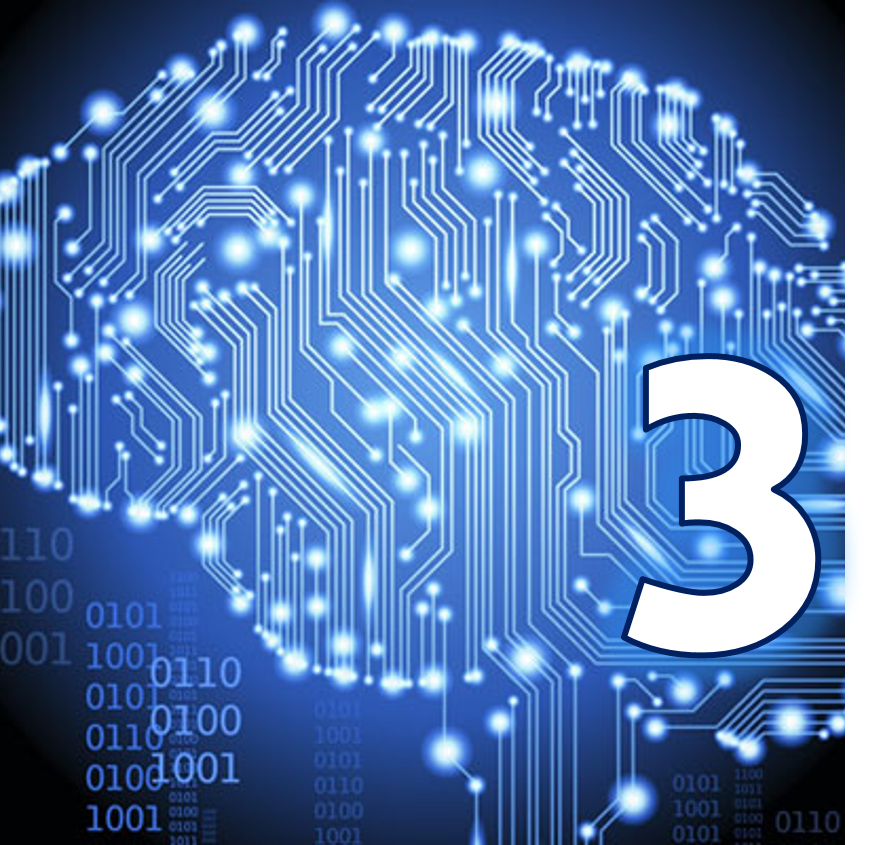
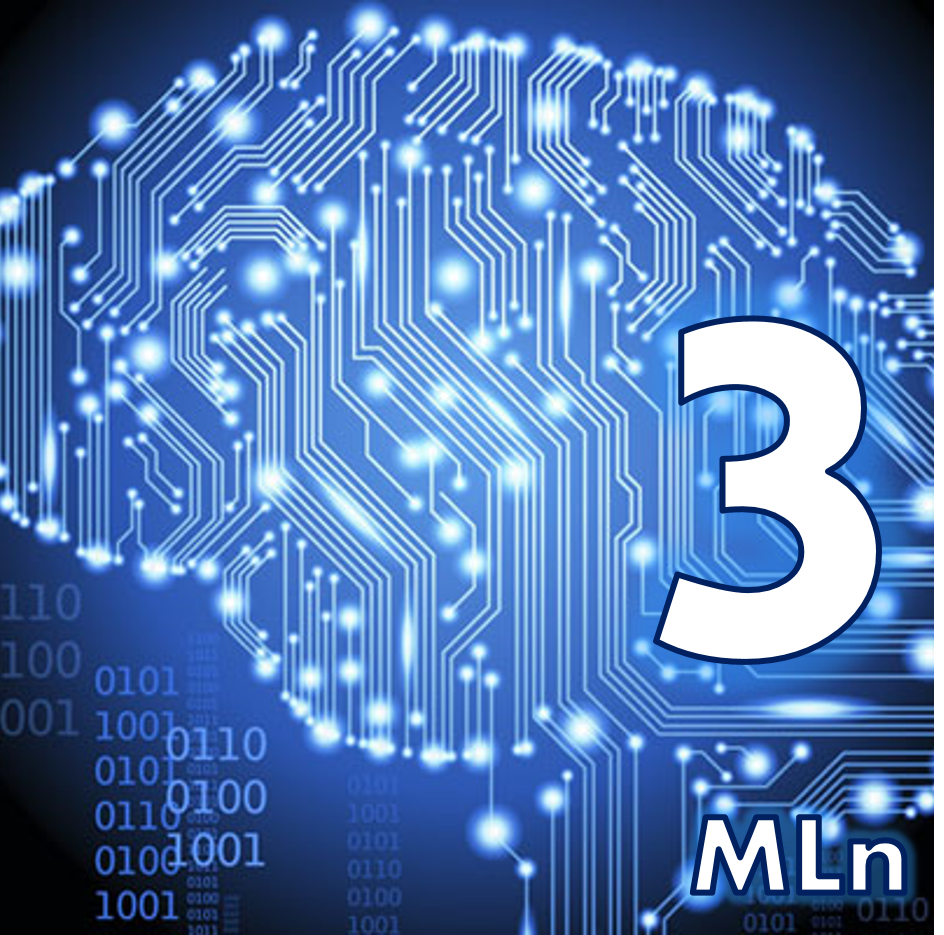
teaser images and descriptions

diff --git a/public/post/webdesign/index.html b/public/post/webdesign/index.html
@@ -225,7 +225,7 @@
 
 <div class="featured_image_container">
 
-  
+  <img class="featured_image" src="/img/featured_hugo.png">
 
  </div>
  
@@ -275,6 +275,11 @@
   </div>
   
   
+  
+<ul class="share-buttons"><li><a href="https://www.facebook.com/sharer/sharer.php?u=https%3A%2F%2Fmlnotebook.github.io&t=" title="Share on Facebook" target="_blank" onclick="window.open('https://www.facebook.com/sharer/sharer.php?u=' + encodeURIComponent(document.URL) + '&t=' + encodeURIComponent(document.URL),'','width=500,height=300'); return false;"><img alt="Share on facebook" src="/img/facebook.png"></a></li>
+  <li><a href="https://twitter.com/intent/tweet?source=https%3A%2F%2Fmlnotebook.github.io&text=:%20https%3A%2F%2Fmlnotebook.github.io&via=mlnotebook" target="_blank" title="Tweet" onclick="window.open('https://twitter.com/intent/tweet?text=' + encodeURIComponent(document.title) + ':%20'  + encodeURIComponent(document.URL),'','width=500,height=300'); return false;"><img alt="Tweet" src="/img/twitter.png"></a></li>
+  <li><a href="http://www.reddit.com/submit?url=https%3A%2F%2Fmlnotebook.github.io&title=" target="_blank" title="Submit to Reddit" onclick="window.open('http://www.reddit.com/submit?url=' + encodeURIComponent(document.URL) + '&title=' +  encodeURIComponent(document.title),'','width=500,height=300'); return false;"><img alt="Submit to Reddit" src="/img/reddit.png"></a></li>
+  <li><a href="http://www.linkedin.com/shareArticle?mini=true&url=https%3A%2F%2Fmlnotebook.github.io&title=&summary=&source=https%3A%2F%2Fmlnotebook.github.io" target="_blank" title="Share on LinkedIn" onclick="window.open('http://www.linkedin.com/shareArticle?mini=true&url=' + encodeURIComponent(document.URL) + '&title=' +  encodeURIComponent(document.title),'','width=500,height=300'); return false;"><img alt="Share on LinkedIn" src="/img/linkedin.png"></a></li></ul>	
   
 </div>
 

diff --git a/public/tags/hugo/index.html b/public/tags/hugo/index.html
@@ -239,8 +239,8 @@
 
 <div class="summary_image">
 
-<img class="summary_image" src="/img/brain.png">
 
+<img class="featured_image" src="/img/featured_hugo.png">
 </div>
 
   <div class="summary_text">
@@ -322,8 +322,8 @@
 
 <div class="summary_image">
 
-<img class="summary_image" src="/img/brain.png">
 
+<img class="featured_image" src="/img/mln_square.png">
 </div>
 
   <div class="summary_text">

diff --git a/public/topics/updates/index.html b/public/topics/updates/index.html
@@ -239,8 +239,8 @@
 
 <div class="summary_image">
 
-<img class="summary_image" src="/img/brain.png">
 
+<img class="featured_image" src="/img/featured_hugo.png">
 </div>
 
   <div class="summary_text">
@@ -322,8 +322,8 @@
 
 <div class="summary_image">
 
-<img class="summary_image" src="/img/brain.png">
 
+<img class="featured_image" src="/img/mln_square.png">
 </div>
 
   <div class="summary_text">

diff --git a/public/page/2/index.html b/public/page/2/index.html
@@ -247,8 +247,8 @@
 
 <div class="summary_image">
 
-<img class="summary_image" src="/img/brain.png">
 
+<img class="featured_image" src="/img/segs.png">
 </div>
 
   <div class="summary_text">
@@ -324,8 +324,8 @@
 
 <div class="summary_image">
 
-<img class="summary_image" src="/img/brain.png">
 
+<img class="featured_image" src="/img/mln_square.png">
 </div>
 
   <div class="summary_text">

diff --git a/public/index.html b/public/index.html
@@ -564,8 +564,8 @@
 
 <div class="summary_image">
 
-<img class="summary_image" src="/img/brain.png">
 
+<img class="featured_image" src="/img/featured_hugo.png">
 </div>
 
   <div class="summary_text">

diff --git a/public/tags/css/index.html b/public/tags/css/index.html
@@ -239,8 +239,8 @@
 
 <div class="summary_image">
 
-<img class="summary_image" src="/img/brain.png">
 
+<img class="featured_image" src="/img/featured_hugo.png">
 </div>
 
   <div class="summary_text">

diff --git a/public/tags/div/index.html b/public/tags/div/index.html
@@ -239,8 +239,8 @@
 
 <div class="summary_image">
 
-<img class="summary_image" src="/img/brain.png">
 
+<img class="featured_image" src="/img/featured_hugo.png">
 </div>
 
   <div class="summary_text">

diff --git a/public/tags/highlight/index.js b/public/tags/highlight/index.js
@@ -239,8 +239,8 @@
 
 <div class="summary_image">
 
-<img class="summary_image" src="/img/brain.png">
 
+<img class="featured_image" src="/img/featured_hugo.png">
 </div>
 
   <div class="summary_text">

diff --git a/public/tags/mathjax/index.html b/public/tags/mathjax/index.html
@@ -239,8 +239,8 @@
 
 <div class="summary_image">
 
-<img class="summary_image" src="/img/brain.png">
 
+<img class="featured_image" src="/img/featured_hugo.png">
 </div>
 
   <div class="summary_text">

diff --git a/public/tags/social-media/index.html b/public/tags/social-media/index.html
@@ -239,8 +239,8 @@
 
 <div class="summary_image">
 
-<img class="summary_image" src="/img/brain.png">
 
+<img class="featured_image" src="/img/featured_hugo.png">
 </div>
 
   <div class="summary_text">

diff --git a/public/tags/syntax/index.html b/public/tags/syntax/index.html
@@ -239,8 +239,8 @@
 
 <div class="summary_image">
 
-<img class="summary_image" src="/img/brain.png">
 
+<img class="featured_image" src="/img/featured_hugo.png">
 </div>
 
   <div class="summary_text">

diff --git a/public/tags/cheatsheet/index.html b/public/tags/cheatsheet/index.html
@@ -239,8 +239,8 @@
 
 <div class="summary_image">
 
-<img class="summary_image" src="/img/brain.png">
 
+<img class="featured_image" src="/img/mln_square.png">
 </div>
 
   <div class="summary_text">
